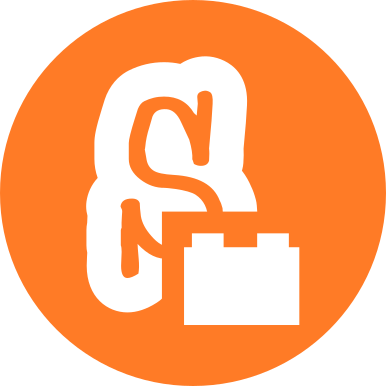
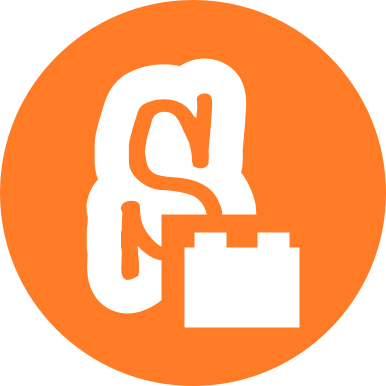
Update .png and use .svg on navbar

diff --git a/_includes/nav.html b/_includes/nav.html
@@ -3,7 +3,7 @@
 	<nav class="navbar navbar-expand-md navbar-dark">
 		
 		<a href="/" class="navbar-brand">
-			<img src="/assets/images/icon.png" alt="Scratch Addons logo"></img>
+			<img src="/assets/images/icon.svg" alt="Scratch Addons logo"></img>
 			<span>Scratch Addons</span>
 		</a>
 	
